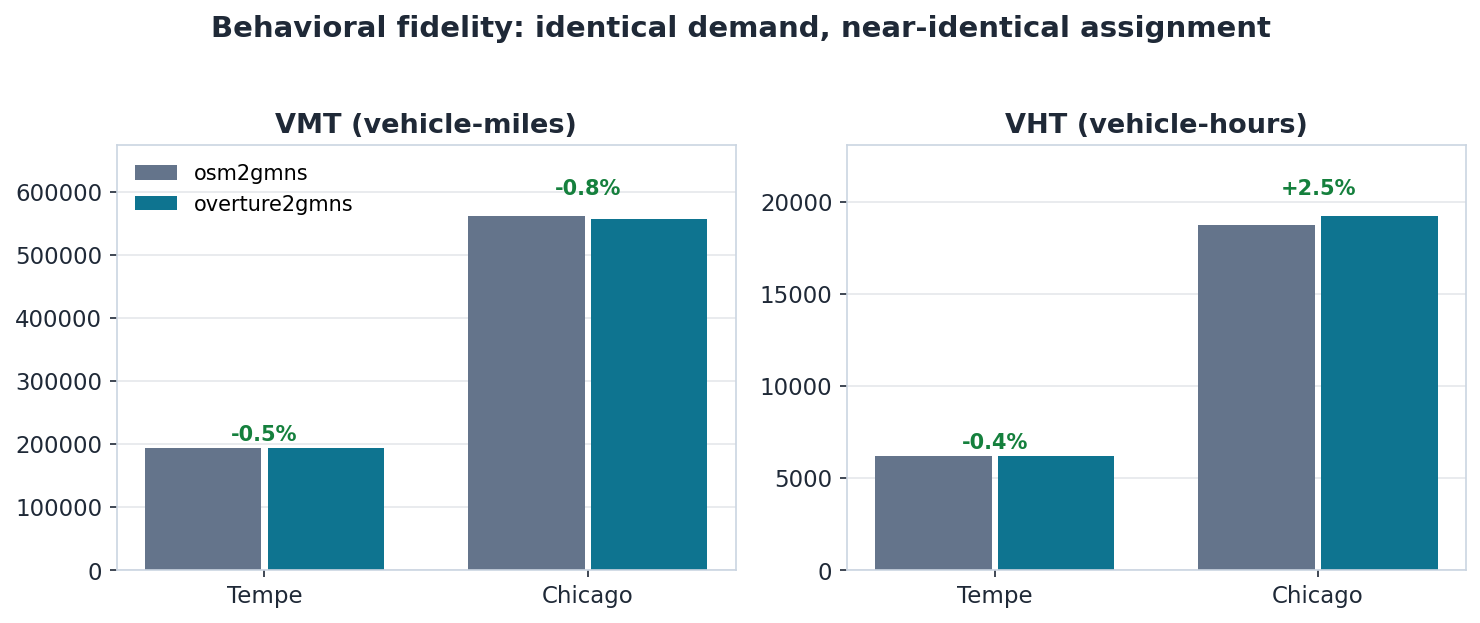
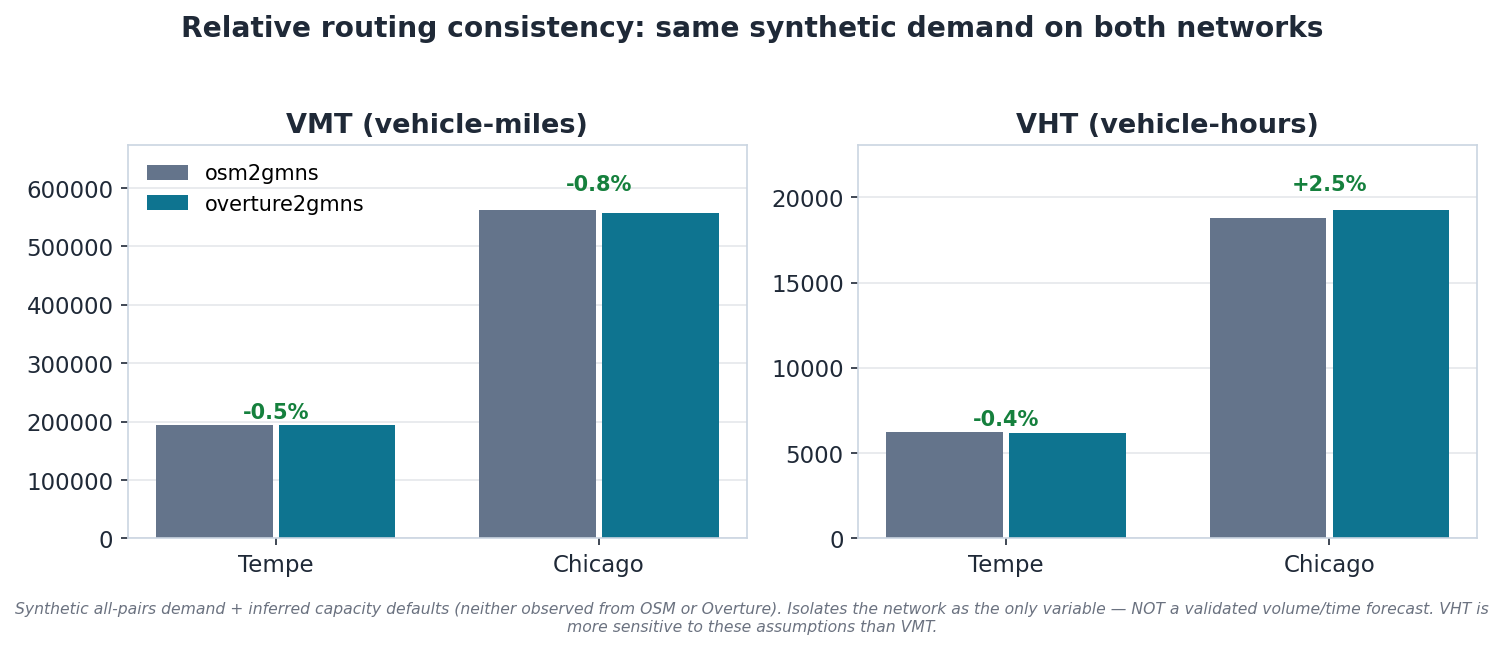
Correct behavioral-claim framing: relative routing consistency, not validated forecast
Demand is synthetic (no observed OD) and capacity is inferred in both converters (neither Overture nor OSM provides observed capacity). Reframe VMT/VHT as a controlled relative comparison that isolates the network as the variable; flag VHT as assumption-sensitive; note true behavioral validation needs observed OD + capacity. Updated figure caption, README table, both reports.

diff --git a/research/conversion_quality/make_figures.py b/research/conversion_quality/make_figures.py
@@ -69,9 +69,14 @@ for ax, metric, title in zip(axes, ("vmt", "vht"), ("VMT (vehicle-miles)", "VHT 
     ax.set_ylim(0, max(max(osm_v), max(ovr_v)) * 1.2)
     ax.ticklabel_format(axis="y", style="plain")
 axes[0].legend(loc="upper left", frameon=False, fontsize=10)
-fig.suptitle("Behavioral fidelity: identical demand, near-identical assignment",
-             fontsize=14, fontweight="bold", color=INK)
-fig.tight_layout(rect=(0, 0, 1, 0.95))
+fig.suptitle("Relative routing consistency: same synthetic demand on both networks",
+             fontsize=13.5, fontweight="bold", color=INK)
+fig.text(0.5, 0.005,
+         "Synthetic all-pairs demand + inferred capacity defaults (neither observed from OSM or "
+         "Overture). Isolates the network as the only variable — NOT a validated volume/time forecast. "
+         "VHT is more sensitive to these assumptions than VMT.",
+         ha="center", fontsize=7.5, color="#6b7280", style="italic", wrap=True)
+fig.tight_layout(rect=(0, 0.05, 1, 0.95))
 fig.savefig(FIG / "fig1_behavioral_fidelity.png"); plt.close(fig)
 
 # ---- Figure 2: semantic advantage (tokens) ---------------------------------

diff --git a/research/conversion_quality/CONVERSION_QUALITY_REPORT.md b/research/conversion_quality/CONVERSION_QUALITY_REPORT.md
@@ -31,29 +31,39 @@ with broken directionality), so all six are reported separately.
 | 3 | Attribute fidelity | are speed/lanes/capacity/class right? | length-by-class, speed-by-class, capacity semantics |
 | 4 | Topological integrity | is connectivity and directionality correct? | weak components, one-way audit |
 | 5 | Semantic fidelity | are interchanges/ramps/managed lanes preserved? | interchange & ML tokens |
-| 6 | Behavioral fidelity | does it route the same under identical demand? | TAPLite VMT/VHT diff |
+| 6 | Routing consistency | does it route the same under *matched* (synthetic demand + inferred capacity) assumptions? | TAPLite VMT/VHT diff |
+
+> Dimension 6 is a **relative** check, not validation: there is no observed OD
+> and no observed capacity (neither data source provides capacity), so it
+> isolates the network as the variable rather than forecasting real volumes.
 
 ---
 
 ## 2. Headline verdict
 
-overture2gmns output is **GMNS-valid, geometrically faithful, and
-behaviorally interchangeable with osm2gmns** at the assignment level, and it
-**preserves semantic freeway structure that osm2gmns loses**. The one class
-of defects found during development were all in the *pipeline* (format
-round-trips, rule-scope handling, capacity units), not the source data, and
-all are fixed and regression-tested.
+overture2gmns output is **GMNS-valid, geometrically faithful, and routes
+consistently with osm2gmns under matched assumptions**, and it **preserves
+semantic freeway structure that osm2gmns loses**. The defects found during
+development were all in the *pipeline* (format round-trips, rule-scope
+handling, capacity units), not the source data, and all are fixed and
+regression-tested.
 
-| region | GMNS valid | geom corr (common cells) | VMT diff vs osm | verdict |
+| region | GMNS valid | geom corr (common cells) | VMT diff vs osm (synthetic demand) | verdict |
 |---|---|---:|---:|---|
-| Tempe | 0 errors | 0.89 | **-0.5%** | interchangeable |
-| Chicago metro | 0 errors | 0.93 | **-0.8%** | interchangeable |
+| Tempe | 0 errors | 0.89 | **-0.5%** | routes consistently |
+| Chicago metro | 0 errors | 0.93 | **-0.8%** | routes consistently |
 
-![Behavioral fidelity](figures/fig1_behavioral_fidelity.png)
+![Relative routing consistency](figures/fig1_behavioral_fidelity.png)
 
-*Identical demand assigned by TAPLite on both networks: VMT agrees to within
-1% in a small city and a full metro. This is the headline — at the level
-planners care about, the two converters are interchangeable.*
+> **What this does and does not show.** The demand is *synthetic* (all-pairs
+> among grid-sampled centroids) — there is **no observed OD** — and capacity
+> is an *inferred class default* in both networks, since **neither Overture
+> nor OSM provides observed capacity**. So this is a **controlled relative
+> comparison** that isolates the network as the only variable: same demand,
+> same capacity assumptions, only the converter output differs. A small VMT
+> gap therefore means the network representation itself does not cause routing
+> divergence. It is **not** a validated volume forecast, and **VHT is more
+> sensitive** to the capacity/demand assumptions than VMT (see §8).
 
 ---
 
@@ -110,11 +120,17 @@ Overture red). Red covering gray = agreement.*
 carries observed (TomTom-normalized) limits where present, marked
 `speed_source=overture`, vs class defaults elsewhere.
 
-**Capacity (fixed during this study):** the GMNS `capacity` column is TOTAL
-link capacity (osm2gmns and TAPLite kernel convention). overture2gmns
-initially wrote per-lane values (bug #3); after the fix, motorway reads
-2,200 pc/h/ln × lanes, consistent with osm2gmns (2,300) and the HCM base
-value. **Agency caution:** MWCOG/NVTA freeway capacities are ~950 vph/ln
+**Capacity — inferred in both, not from either source.** Neither Overture nor
+OSM provides observed link capacity, so *both* converters assign class
+defaults; this is a convention-correctness check, not a data-fidelity claim.
+The bug that was fixed (bug #3) was a *units* error: the GMNS `capacity`
+column is TOTAL link capacity (osm2gmns and TAPLite kernel convention) and
+overture2gmns initially wrote per-lane. After the fix, motorway reads
+2,200 pc/h/ln × lanes, matching the osm2gmns default (2,300) and the HCM base
+value — i.e., the two converters now use *consistent inferred defaults*, which
+is what makes the §8 relative comparison fair. Observed capacity (e.g., from
+INRIX speed-flow or agency tables) is a separate input neither tool has today.
+**Agency caution:** MWCOG/NVTA freeway capacities are ~950 vph/ln
 (period/service capacity) — a different quantity from HCM, never compared raw.
 
 **Class:** Overture promotes some OSM secondary mileage to primary
@@ -166,21 +182,37 @@ within ~9% on I-66 — comparable only at the token layer.
 **Conclusion:** for interchange, ramp, and managed-lane analysis,
 overture2gmns is materially higher-fidelity than an OSM-derived conversion.
 
-## 8. Dimension 6 — behavioral fidelity
+## 8. Dimension 6 — routing consistency (relative, not validated)
 
-Identical synthetic demand (all-pairs among grid-sampled zone centroids at
-the same physical locations in both networks) assigned by TAPLite:
+**Method and its limits.** Identical synthetic demand (all-pairs among
+grid-sampled zone centroids at the same physical locations in both networks)
+assigned by TAPLite. Two things are *assumed*, not measured, and both are
+held identical across the two networks so they cancel in the comparison:
+
+- **Demand is synthetic.** There is no observed OD matrix here; the demand is
+  fabricated. These numbers are not a volume forecast for either network.
+- **Capacity is inferred.** Neither Overture nor OSM provides observed
+  capacity — both networks use the same class-default capacities. VHT depends
+  on congested travel time, which depends on capacity × demand, so **ΔVHT is
+  partly an artifact of these shared assumptions, not the network data.**
+
+Because demand and capacity are identical on both sides, the *network* is the
+only thing that differs — so the diff measures whether the converter's
+topology/geometry causes routing to diverge, and nothing more.
 
 | region | osm VMT | ovr VMT | ΔVMT | osm VHT | ovr VHT | ΔVHT |
 |---|---:|---:|---:|---:|---:|---:|
 | Tempe | 194,211 | 193,279 | **-0.5%** | 6,227 | 6,199 | -0.4% |
 | Chicago | 561,481 | 557,219 | **-0.8%** | 18,770 | 19,230 | +2.5% |
 
-At the level MPOs care about — where traffic goes and how long it takes — the
-Overture-derived network reproduces the OSM-derived network within ~1% VMT in
-both a small city and a full metro. Chicago's +2.5% VHT is consistent with
-Overture's denser connector-level segmentation on arterials, not with missing
-or mis-coded facilities.
+**Read VMT, then VHT, with different confidence.** ΔVMT (path-length driven)
+is the robust signal: within ~1% in both a small city and a full metro, the
+network representation does not shift where traffic goes. ΔVHT is the
+assumption-sensitive one — Chicago's +2.5% reflects the interaction of
+Overture's denser connector-level segmentation with the *inferred* capacity
+and *synthetic* loading, and should not be read as a validated delay
+difference. **A true behavioral validation needs an observed OD matrix and
+observed (or agency) capacities** — that is future work, not claimed here.
 
 ## 9. Agency-model validation (external ground truth)
 

diff --git a/README.md b/README.md
@@ -16,16 +16,22 @@ Validated against osm2gmns (reference) and three agency planning models
 |---|---|---|
 | **GMNS validity** | 0 errors on all 5 networks | gmns-ready + dtalite_qa |
 | **Geometric agreement** | 0.89–0.93 length correlation with osm2gmns | ~500 m grid |
-| **Behavioral fidelity** | **VMT within 1%** under identical demand | TAPLite assignment |
+| **Routing consistency** \* | **VMT within 1%** under identical *synthetic* demand | TAPLite assignment |
 | **Topology** | *more* connected than osm2gmns (18 vs 22, 74 vs 91 components) | weak components |
 | **Semantic fidelity** | **3 system interchanges recovered vs 0** from osm2gmns | freeway tokens |
 | **Agency validation** | ARC & TRM model links **100% present**; NVTA 87% | map matching |
 
-![Behavioral fidelity](research/conversion_quality/figures/fig1_behavioral_fidelity.png)
+\* Relative check only: demand is synthetic (no observed OD) and capacity is an
+inferred class default (neither Overture nor OSM provides observed capacity).
+It isolates the network as the variable — not a validated volume forecast.
+VMT is robust; VHT is more assumption-sensitive.
 
-*Identical demand, near-identical assignment: the Overture-derived network
-routes within 1% VMT of the OSM-derived one in both a small city and a full
-metro.*
+![Relative routing consistency](research/conversion_quality/figures/fig1_behavioral_fidelity.png)
+
+*Same synthetic demand and same inferred capacity on both networks, so the
+converter output is the only variable: VMT stays within 1% in a small city and
+a full metro — the network representation does not shift where traffic goes.
+This is a controlled relative comparison, not a validated forecast.*
 
 ![Semantic advantage](research/conversion_quality/figures/fig2_semantic_advantage.png)
 

diff --git a/REPORT.md b/REPORT.md
@@ -46,19 +46,28 @@ gmns-ready validate_network passes (0 errors).
 
 None of these block use; #1 matters most for interchange/managed-lane work.
 
-## 4. Converter-vs-converter results (identical area, modes, demand)
+## 4. Converter-vs-converter results (identical area and modes)
 
 | metric | Tempe | Chicago metro |
 |---|---:|---:|
 | grid length correlation (common ~500 m cells) | 0.89 | 0.93 |
 | drivable length diff (ovr vs osm) | +9.0% | +12.6% (bbox fringe) |
-| TAPLite ΔVMT, identical demand | **−0.5%** | **−0.8%** |
-| TAPLite ΔVHT | −0.4% | +2.5% |
+| TAPLite ΔVMT, *synthetic* demand | **−0.5%** | **−0.8%** |
+| TAPLite ΔVHT, *synthetic* demand | −0.4% | +2.5% |
 | weak components (fewer better) | 18 vs 22 | 74 vs 91 |
 | map-match ovr→osm / osm→ovr | 87.8% / **99.3%** | — |
 
-Conclusion: behaviorally interchangeable at the assignment level; Overture ⊃
-OSM in coverage; semantic ramp information survives only in Overture.
+The assignment rows are a **relative** check, not a forecast: demand is
+synthetic (no observed OD) and capacity is an inferred class default (neither
+Overture nor OSM provides capacity), held identical on both networks so the
+converter output is the only variable. ΔVMT (robust, path-length driven)
+shows routing does not diverge; ΔVHT is assumption-sensitive and not a
+validated delay difference.
+
+Conclusion: **routes consistently under matched assumptions** at the
+assignment level; Overture ⊃ OSM in coverage; semantic ramp information
+survives only in Overture. A true behavioral validation (observed OD +
+capacity) is future work.
 
 ## 5. Planning-model QA (ARC, TRMG2, NVTA)
 
